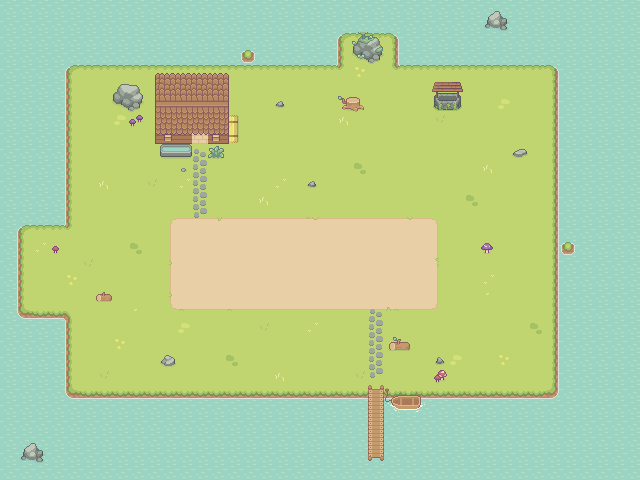
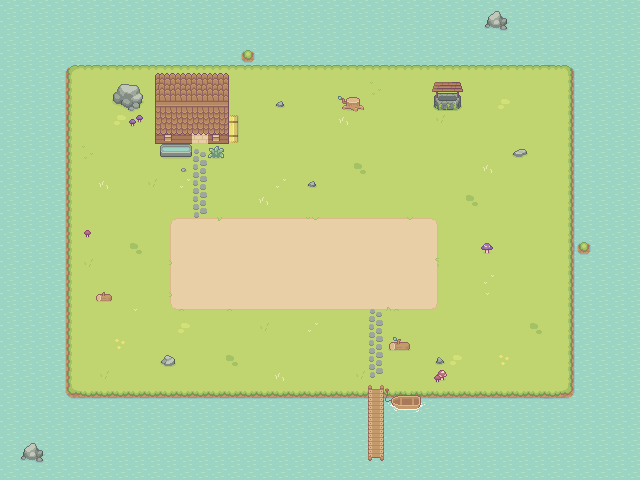
Correct bounds, now mady please don't change the map

Changed region(s): [[0.8438, 0.125, 0.9375, 0.8438], [0.0, 0.4688, 0.1562, 0.6875], [0.5, 0.0625, 0.625, 0.1562]]

diff --git a/src/entity/player.ts b/src/entity/player.ts
@@ -1,7 +1,7 @@
 import { Container, Sprite, Text } from "pixi.js";
 import { Collidable, PLAYER_MASK } from "./collidable";
 import controller from "../controller";
-import { Vec2 } from "../utils/vec2";
+import { V2, Vec2 } from "../utils/vec2";
 import World from "../world";
 
 import { down, left, right, up } from "./player_anims";
@@ -54,7 +54,7 @@ class Player implements Combatible {
   }
 
   step(_dt: number): void {
-    this.velocity = controller.directionVector;
+    this.velocity = V2.multiplyScalar(controller.directionVector, 4);
 
     let selectedSprite: Sprite;
     if (this.velocity.y != 0) {

diff --git a/src/world.ts b/src/world.ts
@@ -11,23 +11,23 @@ settings.SCALE_MODE = SCALE_MODES.NEAREST;
 
 const islandBounds = {
   min: {
-    x: 48,
-    y: 48,
+    x: 72,
+    y: 72,
   },
   max: {
-    x: 128,
-    y: 128,
+    x: 72 + 16 * 31,
+    y: 72 + 16 * 19.5,
   }
 };
 
 const houseBounds = {
   min: {
-    x: 96 + 32,
-    y: 48,
+    x: 128 + 16,
+    y: 72,
   },
   max: {
-    x: 128 + 80,
-    y: 128,
+    x: 128 + 112,
+    y: 128 + 16,
   }
 };
 
